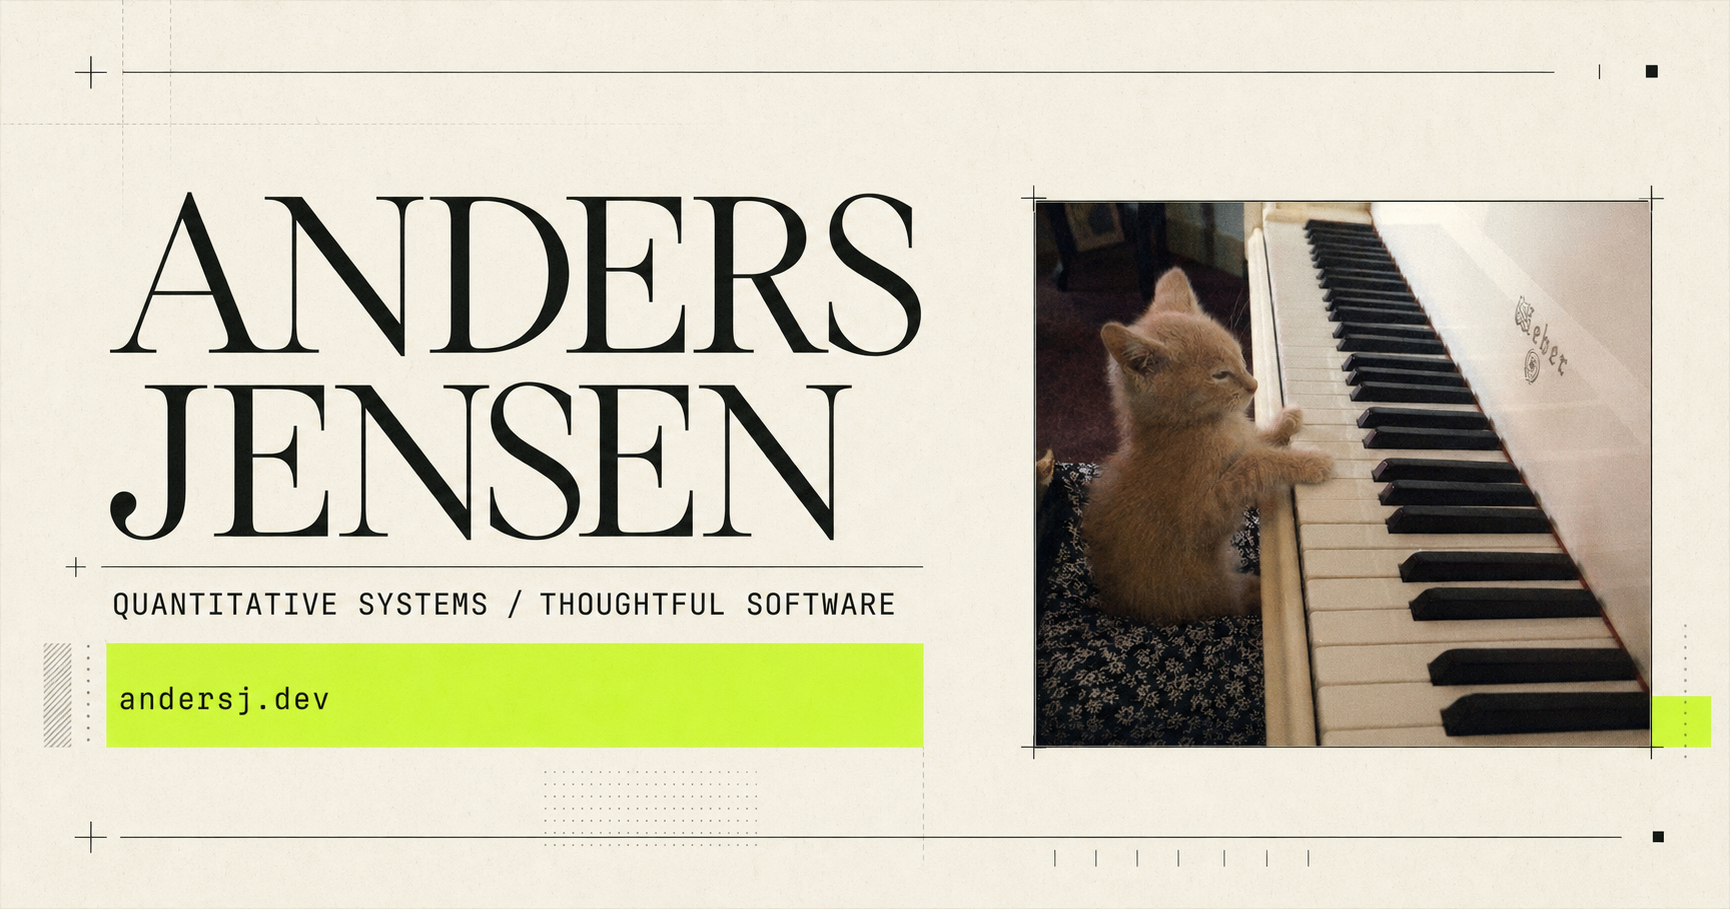
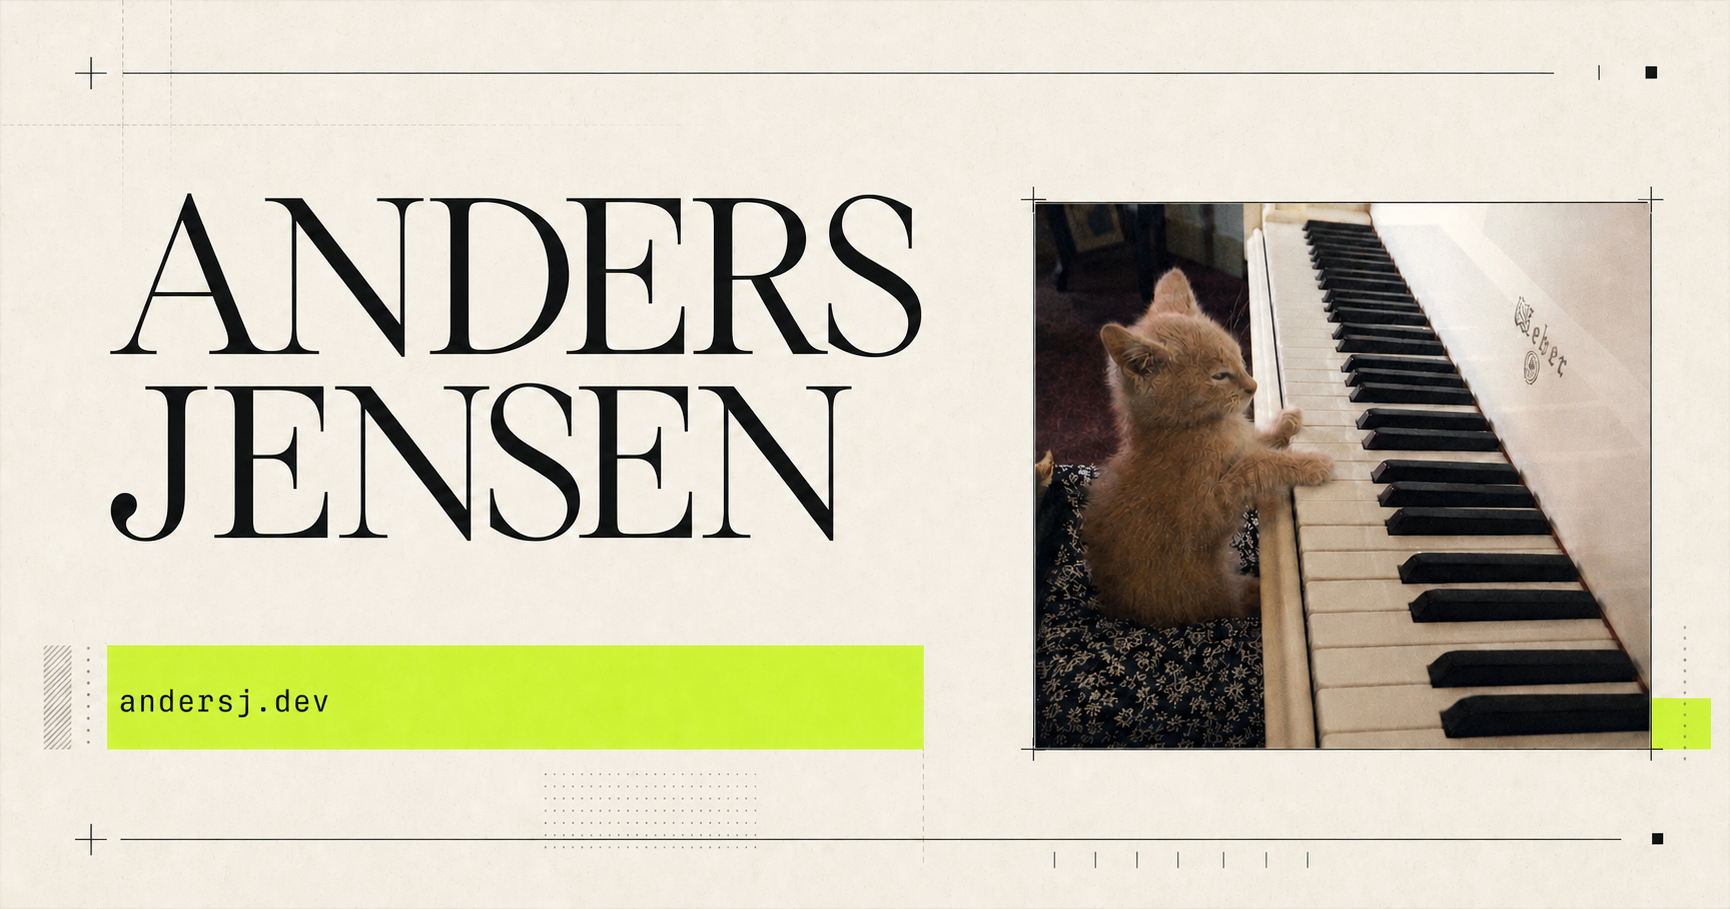
fix: simplify portfolio messaging

diff --git a/index.html b/index.html
@@ -5,13 +5,10 @@
     <meta name="viewport" content="width=device-width, initial-scale=1.0" />
     <meta
       name="description"
-      content="Anders Jensen is a computer science and mathematics student building quantitative models, research systems, and thoughtful software."
+      content="Anders Jensen is a computer science and mathematics student building quantitative models, research systems, and analytical software."
     />
     <meta name="theme-color" content="#11150f" />
-    <meta
-      property="og:title"
-      content="Anders Jensen - Quantitative systems and thoughtful software"
-    />
+    <meta property="og:title" content="Anders Jensen - Portfolio" />
     <meta
       property="og:description"
       content="Portfolio of Anders Jensen: quantitative finance, mathematical modeling, research, and software."
@@ -21,7 +18,7 @@
     <meta property="og:image" content="https://andersj.dev/og.png" />
     <meta name="twitter:card" content="summary_large_image" />
     <meta name="twitter:image" content="https://andersj.dev/og.png" />
-    <title>Anders Jensen - Quantitative systems and thoughtful software</title>
+    <title>Anders Jensen - Portfolio</title>
     <link rel="preconnect" href="https://fonts.googleapis.com" />
     <link rel="preconnect" href="https://fonts.gstatic.com" crossorigin />
     <link
